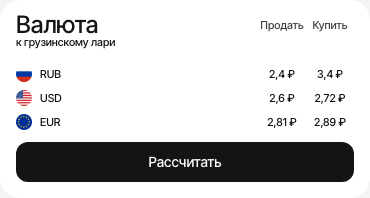
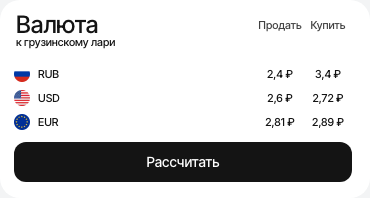
Align currency island inner spacing with Figma

diff --git a/src/styles.css b/src/styles.css
@@ -1478,9 +1478,9 @@ body:has(.guest-direction-sheet[open]) { overflow:hidden; }
 }
 
 /* Currency island — Figma 161:4908. */
-.transfers-menu .menu-currency { padding:10px 16px 16px; }
+.transfers-menu .menu-currency { margin-inline:0; padding:10px 18px 16px 14px; }
 .menu-currency .currency-heading,.menu-currency .currency-row { grid-template-columns:minmax(0,1fr) 48px 48px; }
 .menu-currency .currency-heading { margin-bottom:0; height:29px; }
-.menu-currency .currency-heading h2 { margin:0; line-height:29px; }
-.currency-subtitle { margin:-5px 0 16px; font:500 11px/16px 'Inter Tight',sans-serif; }
+.menu-currency .currency-heading h2 { margin:0 0 0 2px; line-height:29px; }
+.currency-subtitle { margin:-5px 0 16px 2px; font:500 11px/16px 'Inter Tight',sans-serif; }
 .currency-continue { display:flex; align-items:center; justify-content:center; width:100%; height:40px; margin-top:12px; border-radius:12px; background:#141414; color:white; font:500 14px/16px 'Inter Tight',sans-serif; }
